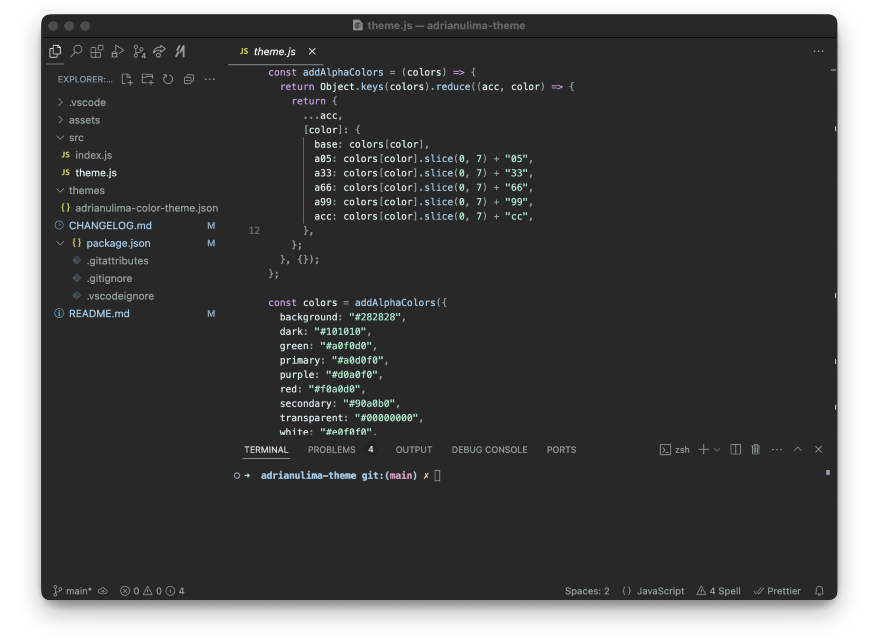
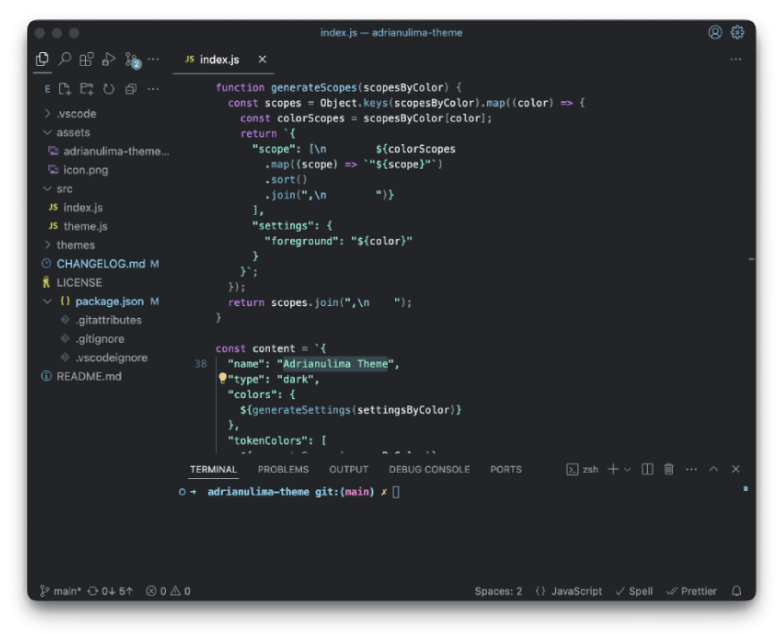
Released 0.2.0

Changed region(s): [[0.0, 0.0, 0.9796, 0.989], [0.7959, 0.6893, 0.8878, 0.7492], [0.7041, 0.6893, 0.7959, 0.7492]]

diff --git a/CHANGELOG.md b/CHANGELOG.md
@@ -1,5 +1,11 @@
 # adrianulima-theme Changelog
 
+## 0.2.0
+
+- Improved contrast for all colors and background
+- Improved search result highlight color
+- Replaced secondary color by primary color with alpha
+
 ## 0.1.0
 
 - Initial release

diff --git a/README.md b/README.md
@@ -53,6 +53,5 @@ Run the project locally:
 ```bash
 git clone https://github.com/adrianulima/adrianulima-theme.git
 cd adrianulima-theme
-npm install
 npm run build
 ```
